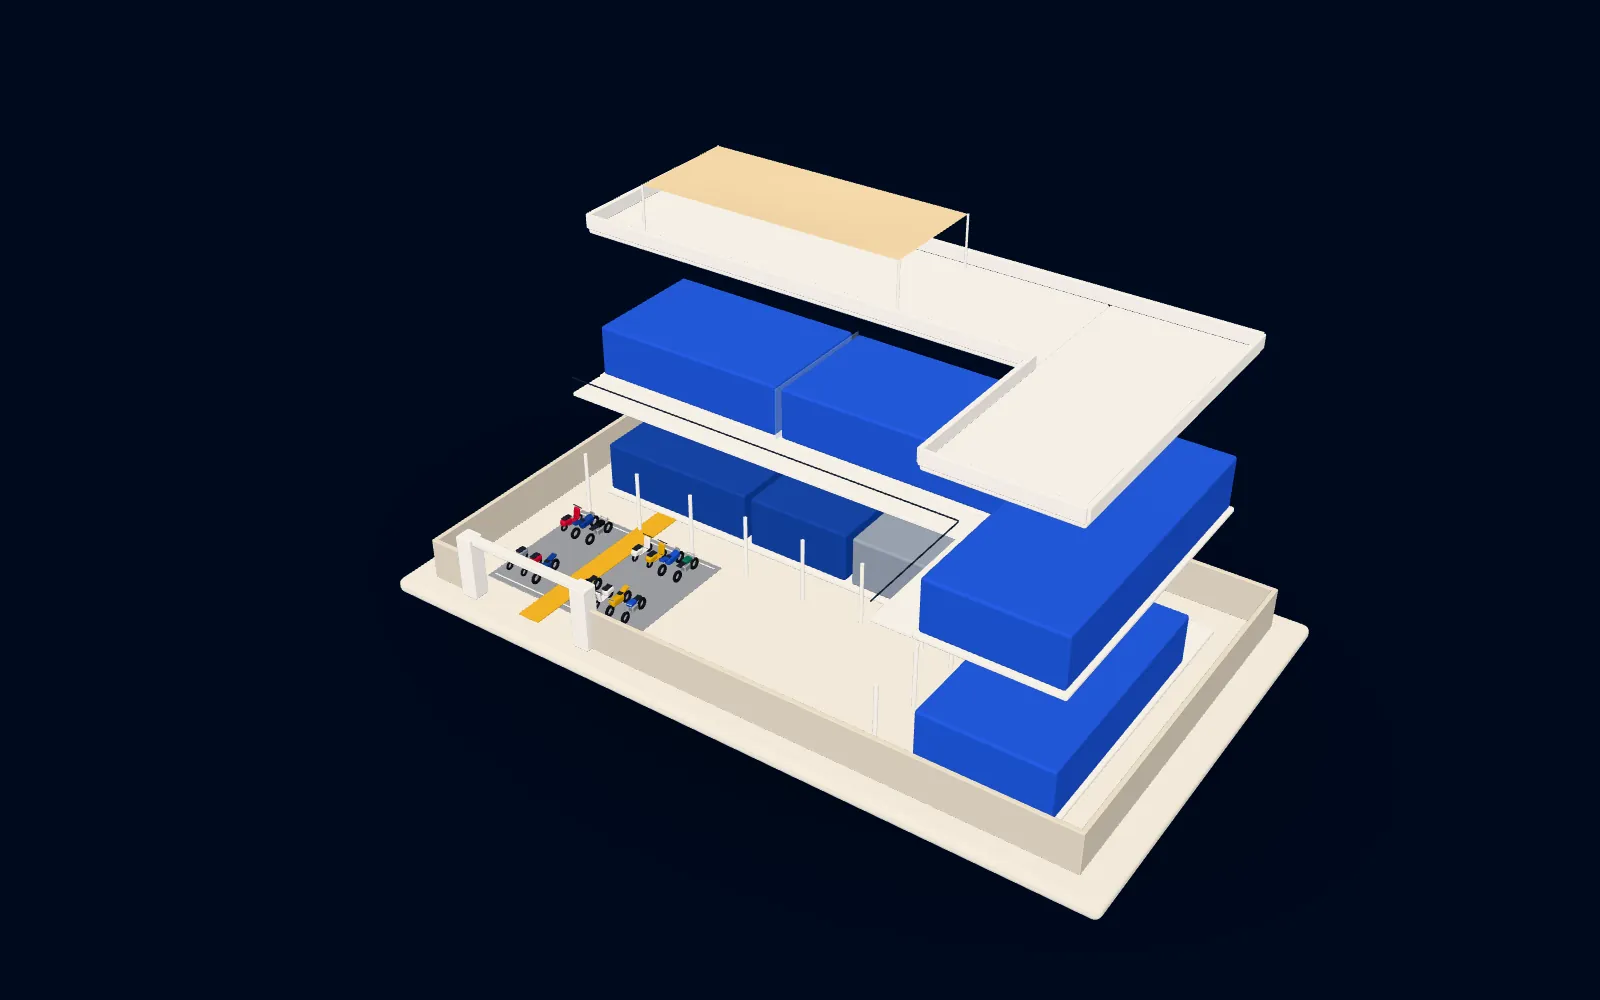
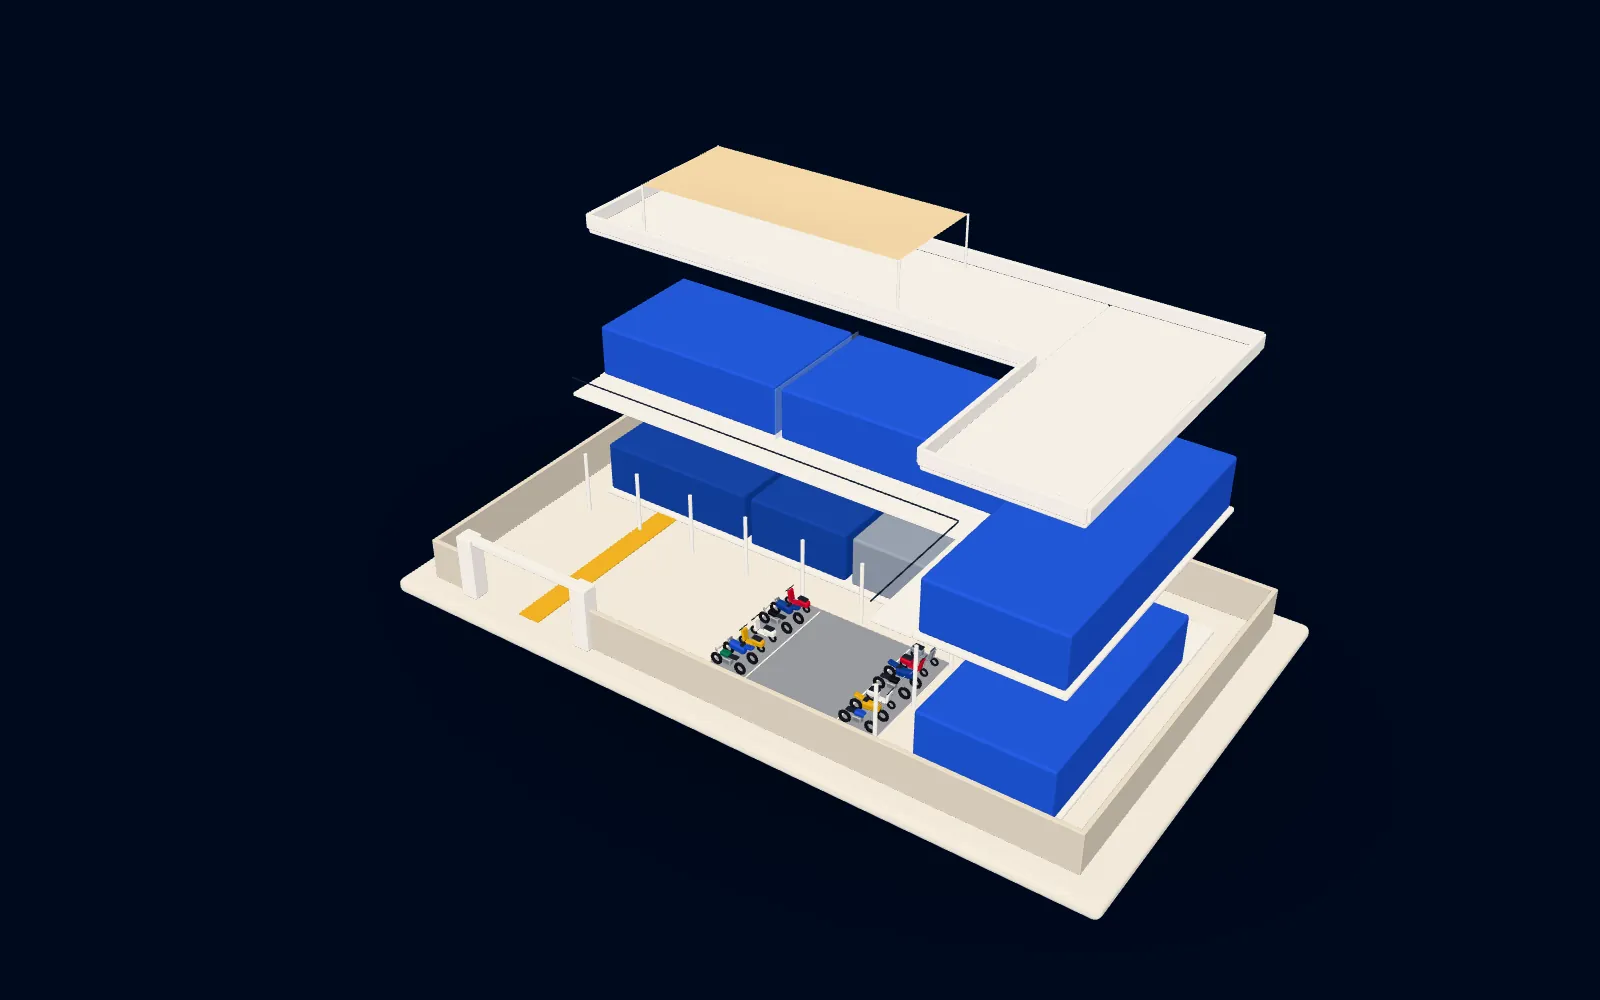
fix(campus): align motorcycle parking beside Hall B
Move the motorcycle parking beside Hall B and orient the motorcycles outward.

Changed region(s): [[0.4375, 0.589, 0.5938, 0.744], [0.3125, 0.496, 0.4688, 0.651]]

diff --git a/src/components/three/campus/bikes.ts b/src/components/three/campus/bikes.ts
@@ -103,26 +103,26 @@ export function createBikeFactory(materials: THREE.MeshStandardMaterial[]) {
   };
 }
 
-/** Le parking : 14 motos en deux rangées, de part et d'autre de l'allée dorée. */
-export function parkBikes(
-  bike: ReturnType<typeof createBikeFactory>,
-  [px, pz, pw, pd]: [number, number, number, number],
-  aisle: [number, number],
-) {
+/**
+ * Le parking : 14 motos en deux colonnes le long de z, allée au milieu.
+ * Celles de gauche ont le nez tourné vers la gauche (ouest), celles de
+ * droite vers la droite (est).
+ */
+export function parkBikes(bike: ReturnType<typeof createBikeFactory>, [px, pz, pw, pd]: [number, number, number, number]) {
   const out = new THREE.Group();
   out.name = "parking-motos";
   const kinds: BikeKind[] = ["scooter", "sport", "roadster", "scooter", "scooter", "sport", "roadster"];
   const colors = ["#c8102e", "#1d3f94", "#1b1d22", "#f4f1ea", "#dfa408", "#2a52c4", "#0b6e4f", "#8891a0"];
-  // emplacements le long de x, en évitant l'allée qui mène à Villa Joell
-  const xs: number[] = [];
-  for (let x = px + 0.6; x < px + pw - 0.4; x += 0.92) if (x < aisle[0] - 0.3 || x > aisle[1] + 0.3) xs.push(x);
+  const zs: number[] = [];
+  for (let z = pz + 0.6; z < pz + pd - 0.4; z += 0.92) zs.push(z);
   let n = 0;
-  for (const [row, z, yaw] of [[0, pz + 1.5, 0], [1, pz + pd - 1.5, Math.PI]] as const) {
-    xs.forEach((x, i) => {
-      const seed = ((i + 1) * 9301 + (row + 1) * 49297) % 233280 / 233280; // pseudo-aléatoire stable
-      const b = bike(kinds[(i + row * 3) % kinds.length], colors[n++ % colors.length]);
+  // rotation.y : +π/2 envoie le nez (−z local) vers −x (gauche), −π/2 vers +x (droite)
+  for (const [col, x, yaw] of [[0, px + 1.0, Math.PI / 2], [1, px + pw - 1.0, -Math.PI / 2]] as const) {
+    zs.forEach((z, i) => {
+      const seed = (((i + 1) * 9301 + (col + 1) * 49297) % 233280) / 233280; // pseudo-aléatoire stable
+      const b = bike(kinds[(i + col * 3) % kinds.length], colors[n++ % colors.length]);
       b.position.set(x, 0.06, z);
-      b.rotation.y = yaw + (seed - 0.5) * 0.3;
+      b.rotation.y = yaw + (seed - 0.5) * 0.2;
       out.add(b);
     });
   }

diff --git a/src/content/campus.ts b/src/content/campus.ts
@@ -16,7 +16,8 @@
  *         séparées par une baie vitrée et reliées par une véranda. PI et
  *         Sigma s'étalent de Villa Joell jusqu'aux toilettes et forment un L
  *         avec NP (au-dessus de la salle B).
- *   Devant : pas de cour, un parking à motos de la taille de Villa Joell.
+ *   Devant : pas de cour, un parking à motos de la taille de Villa Joell,
+ *         centré le long de la salle B, à 2 m d'elle (la galerie).
  *   Toit : le fameux Rooftop, c'est TOUT le toit, au-dessus de PI, Sigma et NP.
  * Recoupé avec la photo du campus publiée par HEI (public/hei/) : véranda en
  * L à garde-corps noirs, galerie à poteaux sous l'aile de droite, toile tendue
@@ -145,10 +146,10 @@ export const ROOMS: Room[] = [
     kind: "outdoor",
     name: { fr: "Parking motos", en: "Motorbike parking" },
     desc: {
-      fr: "Pas de cour à HEI : devant Villa Joell, juste derrière le portail, c'est le parking des deux-roues. Scooters, motos de compétition, roadsters : gare-toi droit et laisse l'allée libre.",
-      en: "There's no courtyard at HEI: in front of Villa Joell, just past the gate, is the two-wheeler parking. Scooters, racing bikes, roadsters: park straight and keep the aisle clear.",
+      fr: "Pas de cour à HEI : le parking des deux-roues longe la salle B, à deux mètres d'elle. Scooters, motos de compétition, roadsters : gare-toi droit, nez vers l'extérieur, et laisse l'allée du milieu libre.",
+      en: "There's no courtyard at HEI: the two-wheeler parking runs alongside Room B, two metres from it. Scooters, racing bikes, roadsters: park straight, nose facing out, and keep the middle aisle clear.",
     },
-    rect: [0, 9, 9, 7], // mêmes dimensions que Villa Joell (PLACEHOLDER comme elle)
+    rect: [13, 9, 9, 7], // mêmes dimensions que Villa Joell, centré sur la façade de B (x = 24), 2 m d'écart
   },
 
   // ─── 1er étage ───

diff --git a/src/components/three/campus/model.ts b/src/components/three/campus/model.ts
@@ -81,10 +81,10 @@ export function buildCampus() {
   if (parking) {
     const [px, pz, pw, pd] = parking.rect;
     root.add(onRect(parking.rect, 0, 0.05, 0.03, mat("#8a8d93", shared, { roughness: 0.95 })));
-    // marquage au sol : une ligne blanche par rangée
+    // marquage au sol : une ligne blanche au bord de chaque colonne, côté allée
     const line = mat("#f4f1ea", shared);
-    for (const z of [pz + 0.3, pz + pd - 0.3]) root.add(onRect([px + 0.2, z - 0.04, pw - 0.4, 0.08], 0.05, 0.02, 0.01, line));
-    root.add(parkBikes(createBikeFactory(shared), parking.rect, [3.4, 4.6]));
+    for (const x of [px + 2.0, px + pw - 2.0]) root.add(onRect([x - 0.04, pz + 0.2, 0.08, pd - 0.4], 0.05, 0.02, 0.01, line));
+    root.add(parkBikes(createBikeFactory(shared), parking.rect));
   }
   // l'allée vers la porte de Villa Joell, en or : elle dit « c'est par ici »
   const pathMesh = onRect([3.4, 7, 1.2, ENCLOSURE.z1 - 7], 0.03, 0.08, 0.03, mat(GOLD, shared, { roughness: 0.6 }));
@@ -196,7 +196,7 @@ export function buildCampus() {
         anchor.position.set(22, 1.4, 4);
       } else if (r.kind === "outdoor") {
         // le parking : pas de volume propre, le repère flotte au-dessus des motos
-        anchor.position.set(x + w / 2 + 2.2, 1.7, z + d / 2);
+        anchor.position.set(x + w / 2, 1.7, z + d / 2);
       } else if (r.kind === "circulation") {
         // la véranda : son volume est la dalle et le garde-corps
         anchor.position.set(x + w / 2, 1.4, z + d / 2);
